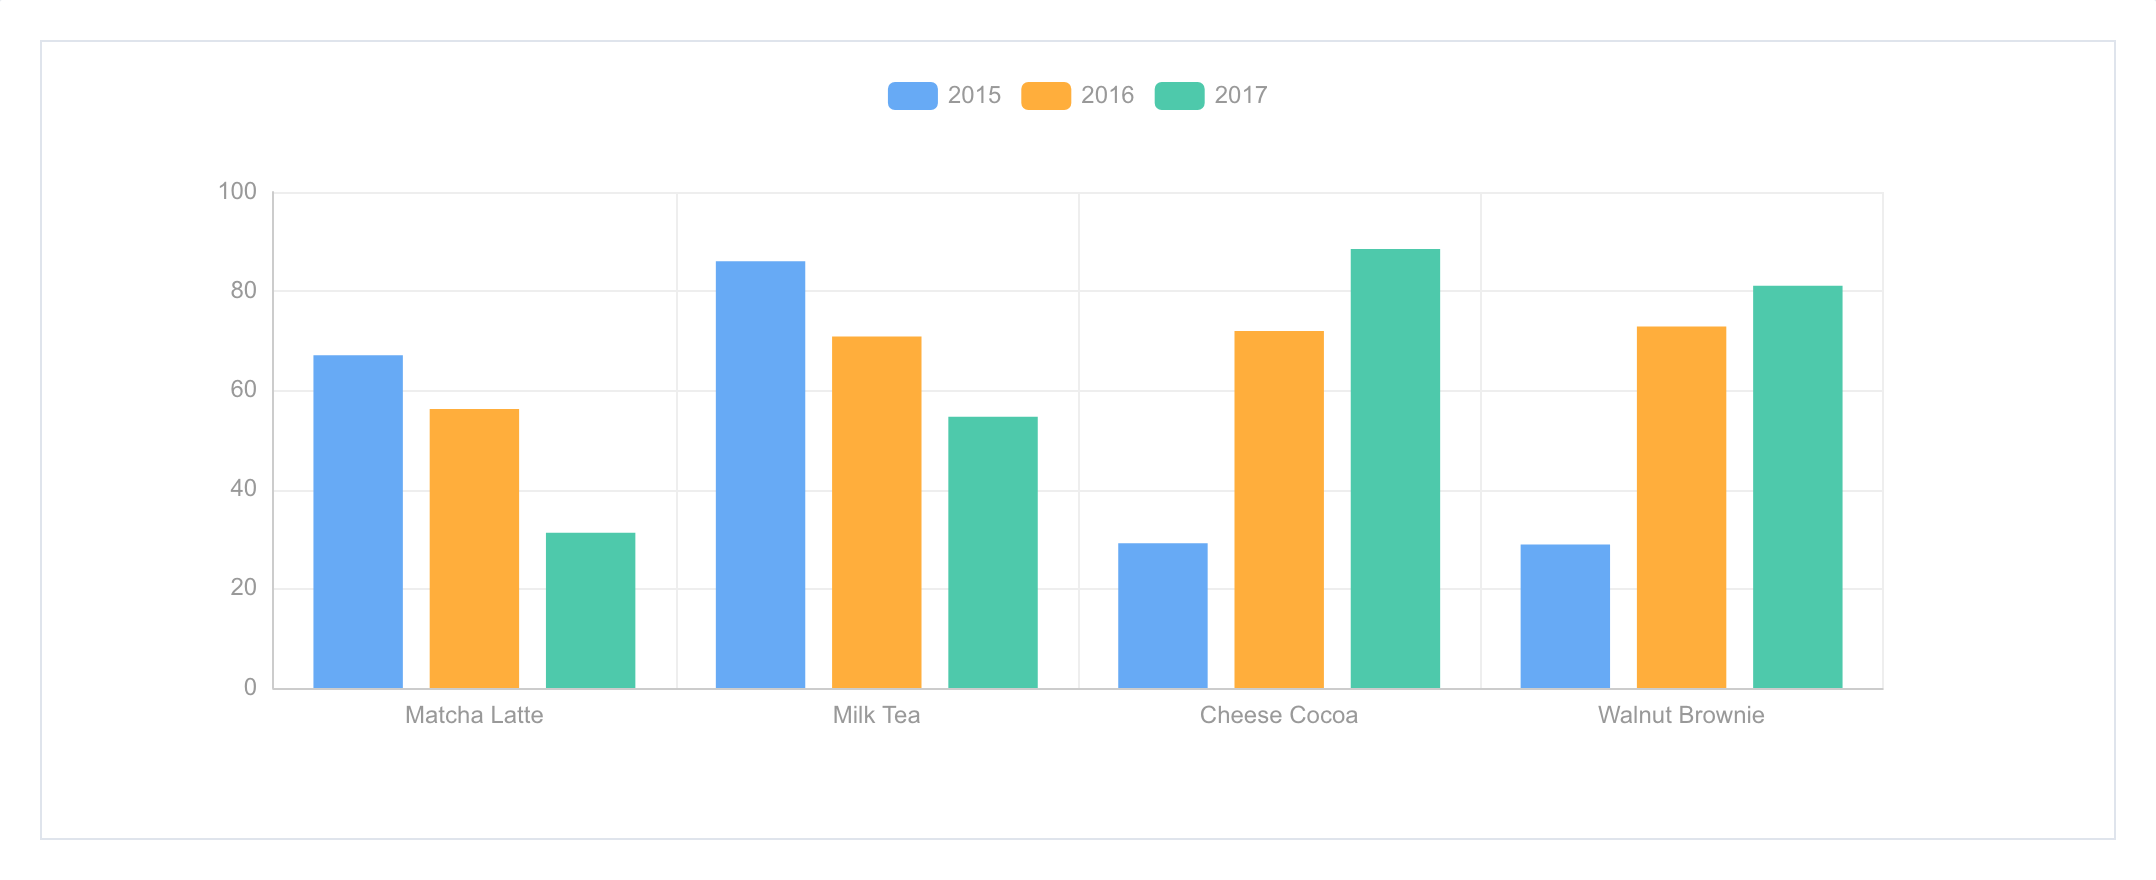
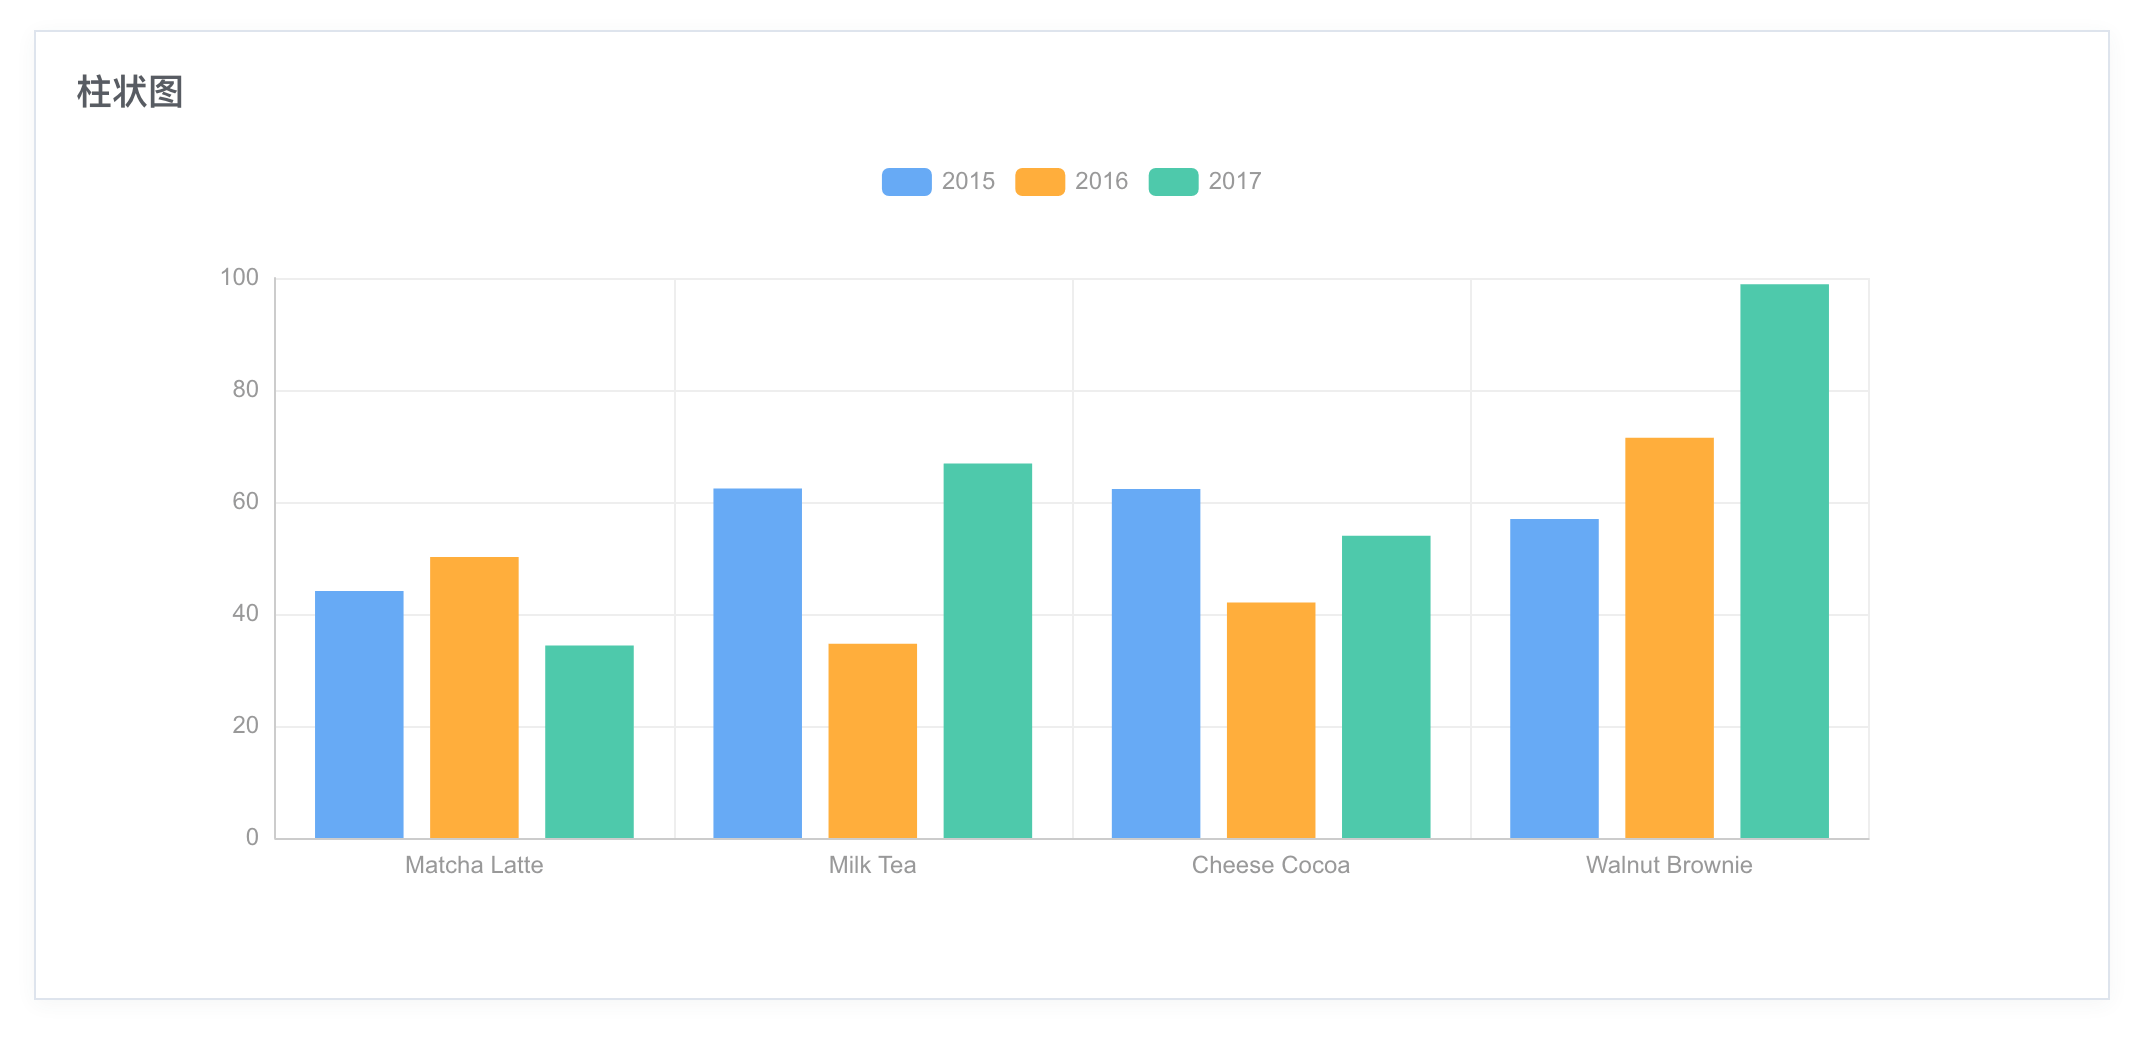
:bookmark: Publish @cloud-ui/s-bar-chart.vue@0.1.5

diff --git a/src/blocks/s-bar-chart.vue/index.html b/src/blocks/s-bar-chart.vue/index.html
@@ -1,4 +1,4 @@
-<div :class="$style.root">
+<u-panel title="柱状图">
     <u-loading v-show="!asyncLib.loaded"></u-loading>
-    <x-echarts :options="options" border></x-echarts>
-</div>
+    <x-echarts :options="options"></x-echarts>
+</u-panel>
